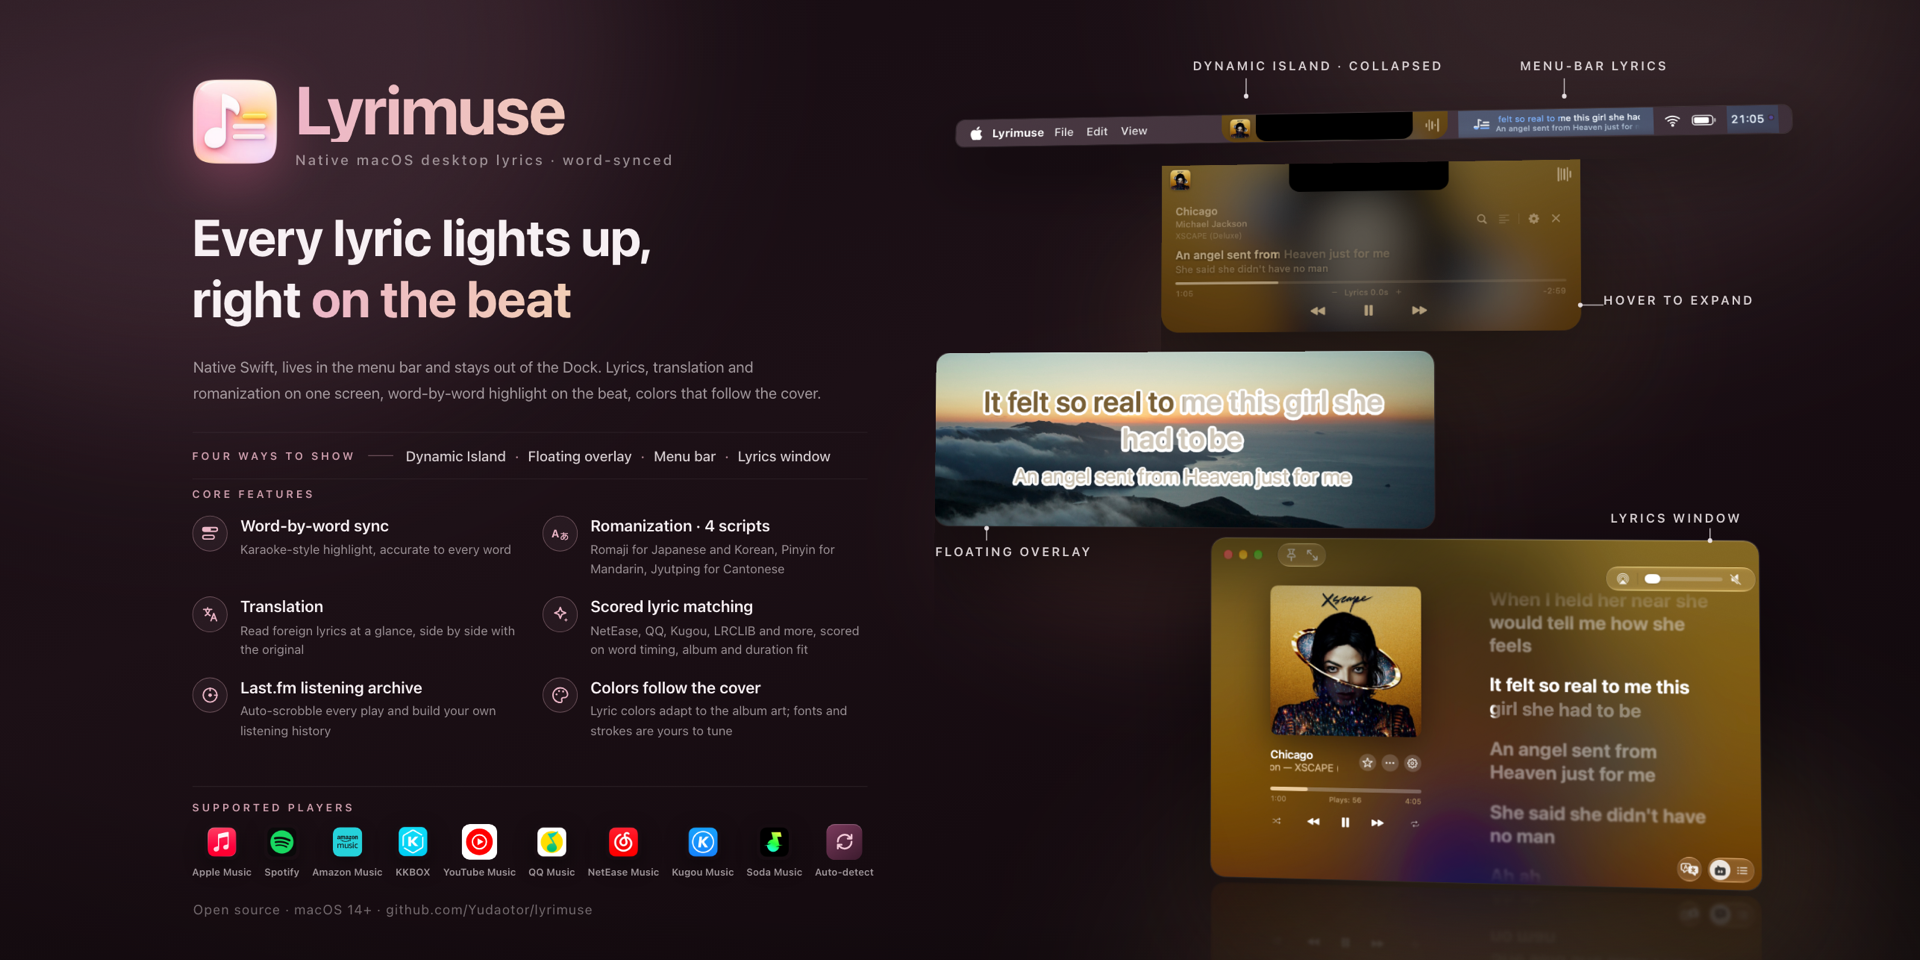
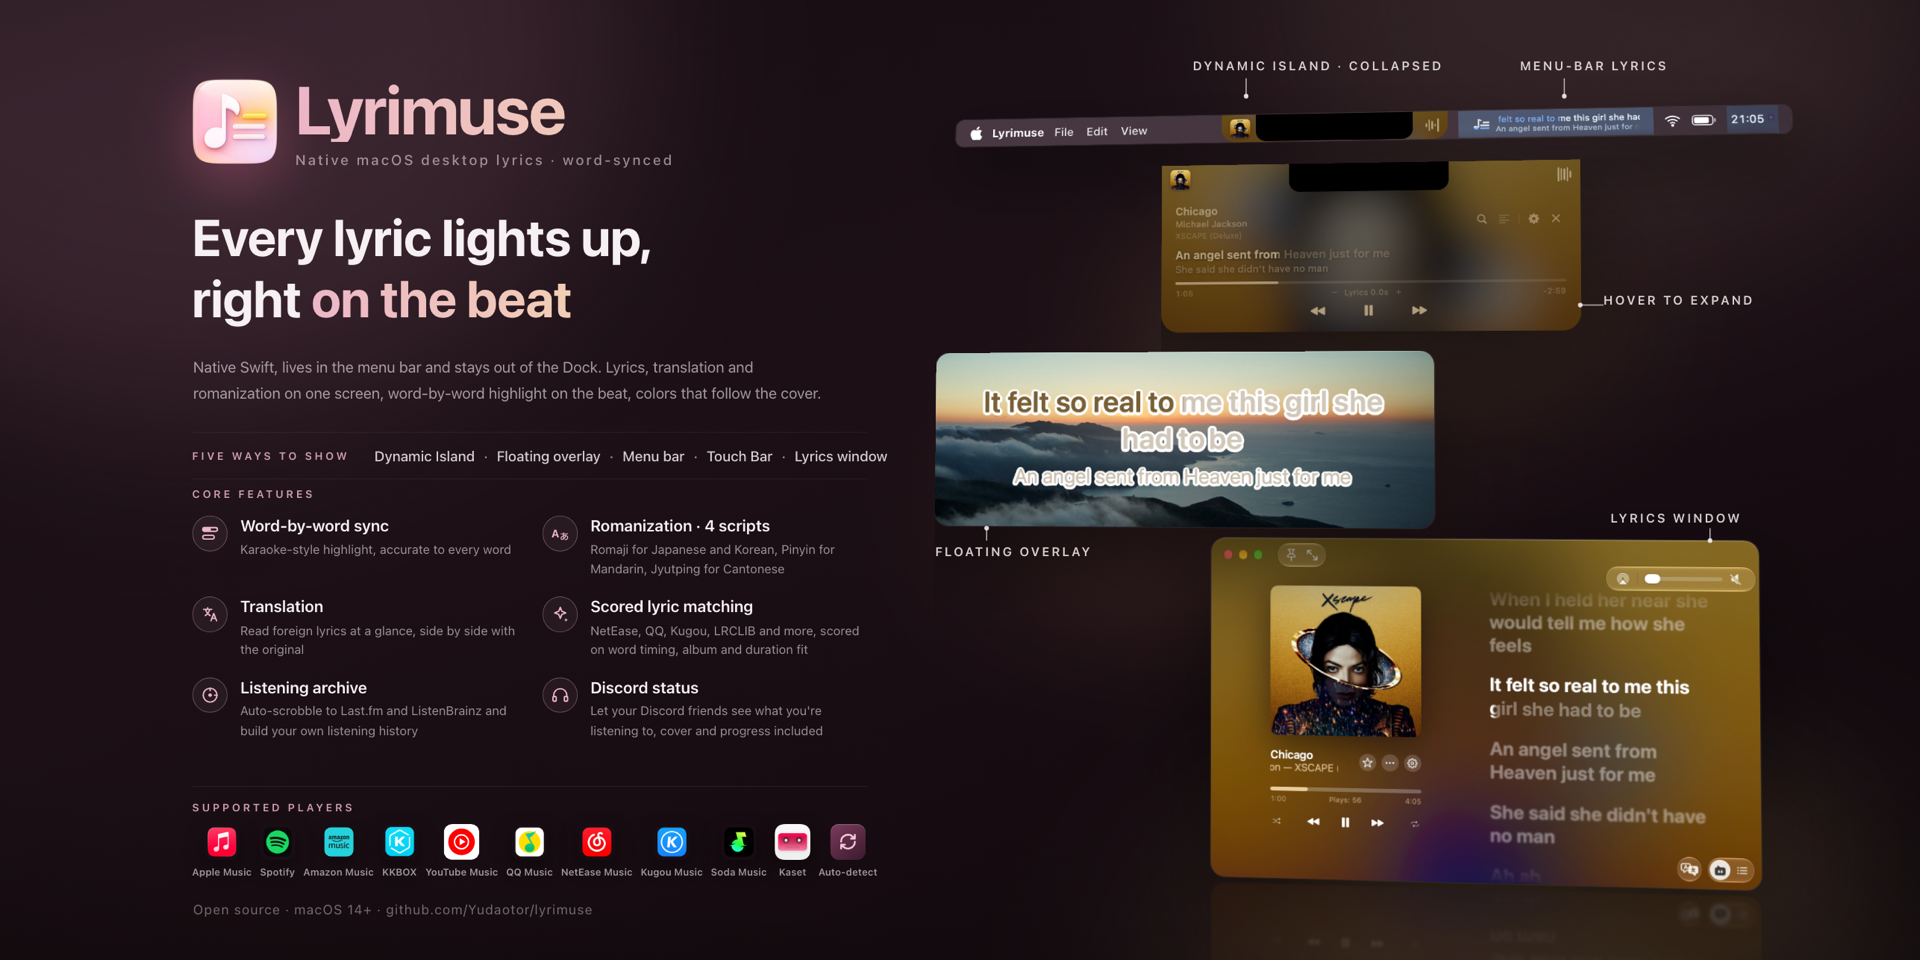
docs(readme): publish the v1.10.0 images ahead of the next release
Bring the refreshed hero images, the screenshots they are built from,
their alt text and the updated lyrics apps comparison from dev to main
so the repo homepage shows them now. The banner lists five display
modes including the Touch Bar, the settings image swaps the menu bar
dropdown for the Touch Bar preview, and the lyrics engine image keeps
to one moment. No code or workflow changes; dev merges this back so the
next release can still fast-forward main.

diff --git a/docs/lyrics-apps-comparison.zh-CN.md b/docs/lyrics-apps-comparison.zh-CN.md
@@ -3,7 +3,7 @@
 **语言：** [English](lyrics-apps-comparison.md) | **简体中文**
 
 > **利益相关声明**：本页由 Lyrimuse 作者维护，请带着这一点来读。
-> 下表所有事实均于 **2026-10-04** 逐项对照各项目自己的公开仓库、README 与发布说明核实；"—" 表示该项目
+> 下表所有事实均于 **2026-10-09** 逐项对照各项目自己的公开仓库、README 与发布说明核实；"—" 表示该项目
 > 自己的公开资料中**未标称**此能力（截至核实日期），不代表一定没有。欢迎指正——
 > [提 issue](https://github.com/Yudaotor/lyrimuse/issues)。
 
@@ -18,14 +18,14 @@
   除 Apple Music、Spotify、Amazon Music 外**原生支持国内播放器（QQ 音乐、网易云音乐、酷狗、汽水音乐）和 KKBOX**，还支持
   YouTube Music 客户端 Kaset，以及浏览器里播放的 YouTube Music / Spotify 网页版；国内外歌词源自动查证，**全部候选统一打分、择优胜出**
   （每首歌的决策过程可查）；翻译，日语、韩语、普通话、粤语都能标读音；Last.fm 与 ListenBrainz 打卡（scrobble）
-  加本地听歌统计。macOS 14+，Apple Silicon 与 Intel 都有构建。
+  加本地听歌统计；歌词还能显示在触控栏上，Discord 状态也能显示正在听的歌。macOS 14+，Apple Silicon 与 Intel 都有构建。
 
-## 逐项对比（2026-10-04 核实）
+## 逐项对比（2026-10-09 核实）
 
 | | **Lyrimuse** | **LyricsX** | **Lyric Fever** |
 |---|---|---|---|
 | 许可证 · 价格 | GPL-3.0 · 免费 | MPL-2.0 · 免费 | MIT · 免费 |
-| 最新发布 | v1.9.0（2026-09） | v1.6.3（2022-04） | v3.3（2025-11） |
+| 最新发布 | v1.10.0（2026-10） | v1.6.3（2022-04） | v3.3（2025-11） |
 | 最低 macOS | 14（Sonoma） | 10.11 | 15（Sequoia） |
 | 支持的播放器 | Apple Music、Spotify、QQ 音乐、网易云音乐、酷狗、汽水音乐、KKBOX、Amazon Music、Kaset（YouTube Music）——可任意组合 | Apple Music、Spotify、Vox、Audirvana、Swinsian（经其 MusicPlayer 组件） | Spotify、Apple Music |
 | 浏览器网页播放器 | YouTube Music 与 Spotify 网页版，跟随页面自身进度同步 | — | — |
@@ -37,7 +37,8 @@
 | 简繁转换 | 支持，独立于界面语言 | 支持 | 支持，另有香港、台湾两种繁体 |
 | 对唱/多歌手分行 | 支持（源标注了演唱者时） | — | — |
 | 打卡与听歌统计 | Last.fm + ListenBrainz 打卡、补传、本地历史、榜单、听歌热力图 | — | — |
-| 展示形态 | 桌面悬浮歌词、灵动岛胶囊、菜单栏歌词、完整歌词窗口 | 桌面 + 菜单栏 | 菜单栏、全屏视图、卡拉 OK 弹窗 |
+| 展示形态 | 桌面悬浮歌词、灵动岛胶囊、菜单栏歌词、触控栏歌词、完整歌词窗口 | 桌面 + 菜单栏 + 触控栏 | 菜单栏、全屏视图、卡拉 OK 弹窗 |
+| Discord 状态 | 在你的 Discord 资料卡上显示正在听的歌名、歌手、专辑、封面和进度（默认关闭，只和本机的 Discord 桌面版通信） | — | — |
 | 界面语言 | 英文、简体中文、繁体中文 | 多语言（Crowdin） | 英文、简体中文、繁体中文 |
 
 ## Lyrimuse 的定位

diff --git a/docs/lyrics-apps-comparison.md b/docs/lyrics-apps-comparison.md
@@ -4,7 +4,7 @@
 
 > **Disclosure:** this page is maintained by the author of Lyrimuse, so read it with that in mind.
 > Every factual claim below was checked against each project's own public repository, README and
-> release notes on **2026-10-04**; "—" means a feature is *not advertised* in that project's own
+> release notes on **2026-10-09**; "—" means a feature is *not advertised* in that project's own
 > materials as of that date, not necessarily that it's absent. Corrections are welcome —
 > [open an issue](https://github.com/Yudaotor/lyrimuse/issues).
 
@@ -21,14 +21,14 @@ of the actively maintained open-source options:
   YouTube Music in the Kaset app or in any browser, and Spotify Web; Chinese and international lyric sources checked automatically, with
   **every candidate scored on one scale so the best match wins** (and the decision shown per
   track); translation, readings for Japanese, Korean, Mandarin and Cantonese; Last.fm & ListenBrainz scrobbling
-  with local listening stats. macOS 14+, Apple Silicon and Intel.
+  with local listening stats; lyrics on the Touch Bar, and your Discord status showing what you play. macOS 14+, Apple Silicon and Intel.
 
-## Side-by-side (facts checked 2026-10-04)
+## Side-by-side (facts checked 2026-10-09)
 
 | | **Lyrimuse** | **LyricsX** | **Lyric Fever** |
 |---|---|---|---|
 | License · price | GPL-3.0 · free | MPL-2.0 · free | MIT · free |
-| Latest release | v1.9.0 (Sep 2026) | v1.6.3 (Apr 2022) | v3.3 (Nov 2025) |
+| Latest release | v1.10.0 (Oct 2026) | v1.6.3 (Apr 2022) | v3.3 (Nov 2025) |
 | Minimum macOS | 14 (Sonoma) | 10.11 | 15 (Sequoia) |
 | Players | Apple Music, Spotify, QQ Music, NetEase Cloud Music, Kugou, Soda Music, KKBOX, Amazon Music, Kaset (YouTube Music) — any combination | Apple Music, Spotify, Vox, Audirvana, Swinsian (via its MusicPlayer library) | Spotify, Apple Music |
 | Web players in a browser | YouTube Music & Spotify Web, synced to the page's own progress | — | — |
@@ -40,7 +40,8 @@ of the actively maintained open-source options:
 | Simplified ⇄ Traditional Chinese | yes, independent of UI language | yes | yes, including the Hong Kong and Taiwan variants |
 | Duet / multi-singer line splitting | yes, when the source marks parts | — | — |
 | Scrobbling & listening stats | Last.fm + ListenBrainz scrobbling, backfill, local history, charts, listening heatmap | — | — |
-| Display surfaces | floating overlay, Dynamic-Island-style capsule, menu bar lyrics, full lyrics window | desktop + menu bar | menu bar, fullscreen view, karaoke popup |
+| Display surfaces | floating overlay, Dynamic-Island-style capsule, menu bar lyrics, Touch Bar lyrics, full lyrics window | desktop + menu bar + Touch Bar | menu bar, fullscreen view, karaoke popup |
+| Discord status | the playing song, artist, album, cover and progress on your Discord profile (off by default; talks only to the Discord app on your Mac) | — | — |
 | UI languages | English, Simplified Chinese, Traditional Chinese | multiple (Crowdin) | English, Simplified Chinese, Traditional Chinese |
 
 ## Where Lyrimuse fits

diff --git a/README.md b/README.md
@@ -34,13 +34,13 @@ brew install --cask lyrimuse
 <img src="docs/images/hero-surfaces.jpg" alt="Lyrimuse lyrics surfaces — Apple-Music-style lyrics window, Dynamic-Island-style capsule, floating overlay with word-by-word highlight, menu-bar lyrics">
 <p align="center"><sub>Four ways to show lyrics: the Lyrics Window, the Dynamic-Island-style capsule, the floating overlay with word-by-word highlight, and the menu bar</sub></p>
 
-<img src="docs/images/hero-engine.jpg" alt="Lyrimuse lyrics engine — Lyrics Manager, scored manual search, per-track resolution decision panel">
+<img src="docs/images/hero-engine.jpg" alt="Lyrimuse lyrics engine — Lyrics Manager, per-track resolution decision panel with every candidate scored">
 <p align="center"><sub>Lyrics Manager, manual search with a score on every result, and the panel that shows why a song got the lyrics it got</sub></p>
 
 <img src="docs/images/hero-profile.jpg" alt="Lyrimuse listening profile — Last.fm stats, top charts, idle listening overview, yearly listening heatmap">
 <p align="center"><sub>Your Last.fm numbers and charts, the overview you see when nothing's playing, and a GitHub-style heatmap of your year</sub></p>
 
-<img src="docs/images/hero-customize.jpg" alt="Lyrimuse settings — live-preview editors, multi-select player picker with web players, menu-bar dropdown">
+<img src="docs/images/hero-customize.jpg" alt="Lyrimuse settings — live-preview editors, multi-select player picker with web players, Touch Bar lyrics">
 <p align="center"><sub>Every settings page has a live preview, you can pick more than one player (web players too), and the menu bar dropdown has the rest</sub></p>
 
 ## Features

diff --git a/README.zh-Hant.md b/README.zh-Hant.md
@@ -34,13 +34,13 @@ brew install --cask lyrimuse
 <img src="docs/images/hero-surfaces.zh-Hant.jpg" alt="Lyrimuse 歌詞顯示形態——歌詞視窗、動態島膠囊、桌面浮動歌詞（逐字填色）、選單列歌詞">
 <p align="center"><sub>四種顯示方式：歌詞視窗、動態島膠囊、逐字填色的桌面浮動歌詞、選單列歌詞</sub></p>
 
-<img src="docs/images/hero-engine.jpg" alt="Lyrimuse 歌詞引擎——歌詞管理、帶評分的手動搜尋、逐首歌的解析決策面板">
+<img src="docs/images/hero-engine.jpg" alt="Lyrimuse 歌詞引擎——歌詞管理、逐首歌的解析決策面板（每個候選都有評分）">
 <p align="center"><sub>歌詞管理、每個結果都有評分的手動搜尋，還有一個面板告訴你這首歌為什麼用了這份歌詞</sub></p>
 
 <img src="docs/images/hero-profile.jpg" alt="Lyrimuse 聆聽檔案——Last.fm 統計、排行榜、閒置聆聽總覽、全年熱力圖">
 <p align="center"><sub>Last.fm 數據和排行榜、沒在播歌時的聆聽總覽，還有一張 GitHub 那樣的全年熱力圖</sub></p>
 
-<img src="docs/images/hero-customize.jpg" alt="Lyrimuse 設定——即時預覽編輯台、播放器多選（含網頁播放器）、選單列下拉選單">
+<img src="docs/images/hero-customize.jpg" alt="Lyrimuse 設定——即時預覽編輯台、播放器多選（含網頁播放器）、觸控列歌詞">
 <p align="center"><sub>每一頁設定都能即時預覽，播放器可以多選（網頁播放器也行），其餘常用操作都在選單列下拉裡</sub></p>
 
 ## 功能特色

diff --git a/README.zh-CN.md b/README.zh-CN.md
@@ -34,13 +34,13 @@ brew install --cask lyrimuse
 <img src="docs/images/hero-surfaces.zh-CN.jpg" alt="Lyrimuse 歌词展示形态——歌词窗口、灵动岛胶囊、桌面悬浮歌词（逐字染色）、菜单栏歌词">
 <p align="center"><sub>四种显示方式：歌词窗口、灵动岛胶囊、逐字染色的桌面悬浮歌词、菜单栏歌词</sub></p>
 
-<img src="docs/images/hero-engine.jpg" alt="Lyrimuse 歌词引擎——歌词管理、带打分的手动搜索、逐首歌的解析决策面板">
+<img src="docs/images/hero-engine.jpg" alt="Lyrimuse 歌词引擎——歌词管理、逐首歌的解析决策面板（每个候选都有打分）">
 <p align="center"><sub>歌词管理、给每个结果都打了分的手动搜索，还有一个面板告诉你这首歌为什么用了这份歌词</sub></p>
 
 <img src="docs/images/hero-profile.jpg" alt="Lyrimuse 听歌档案——Last.fm 统计、榜单、空闲听歌总览、全年热力图">
 <p align="center"><sub>Last.fm 数据和榜单、没在放歌时的听歌总览，还有一张 GitHub 那样的全年热力图</sub></p>
 
-<img src="docs/images/hero-customize.jpg" alt="Lyrimuse 设置——实时预览编辑台、播放器多选（含网页播放器）、菜单栏下拉">
+<img src="docs/images/hero-customize.jpg" alt="Lyrimuse 设置——实时预览编辑台、播放器多选（含网页播放器）、触控栏歌词">
 <p align="center"><sub>每一页设置都能实时预览，播放器可以多选（网页播放器也行），其余常用操作都在菜单栏下拉里</sub></p>
 
 ## 功能特性
